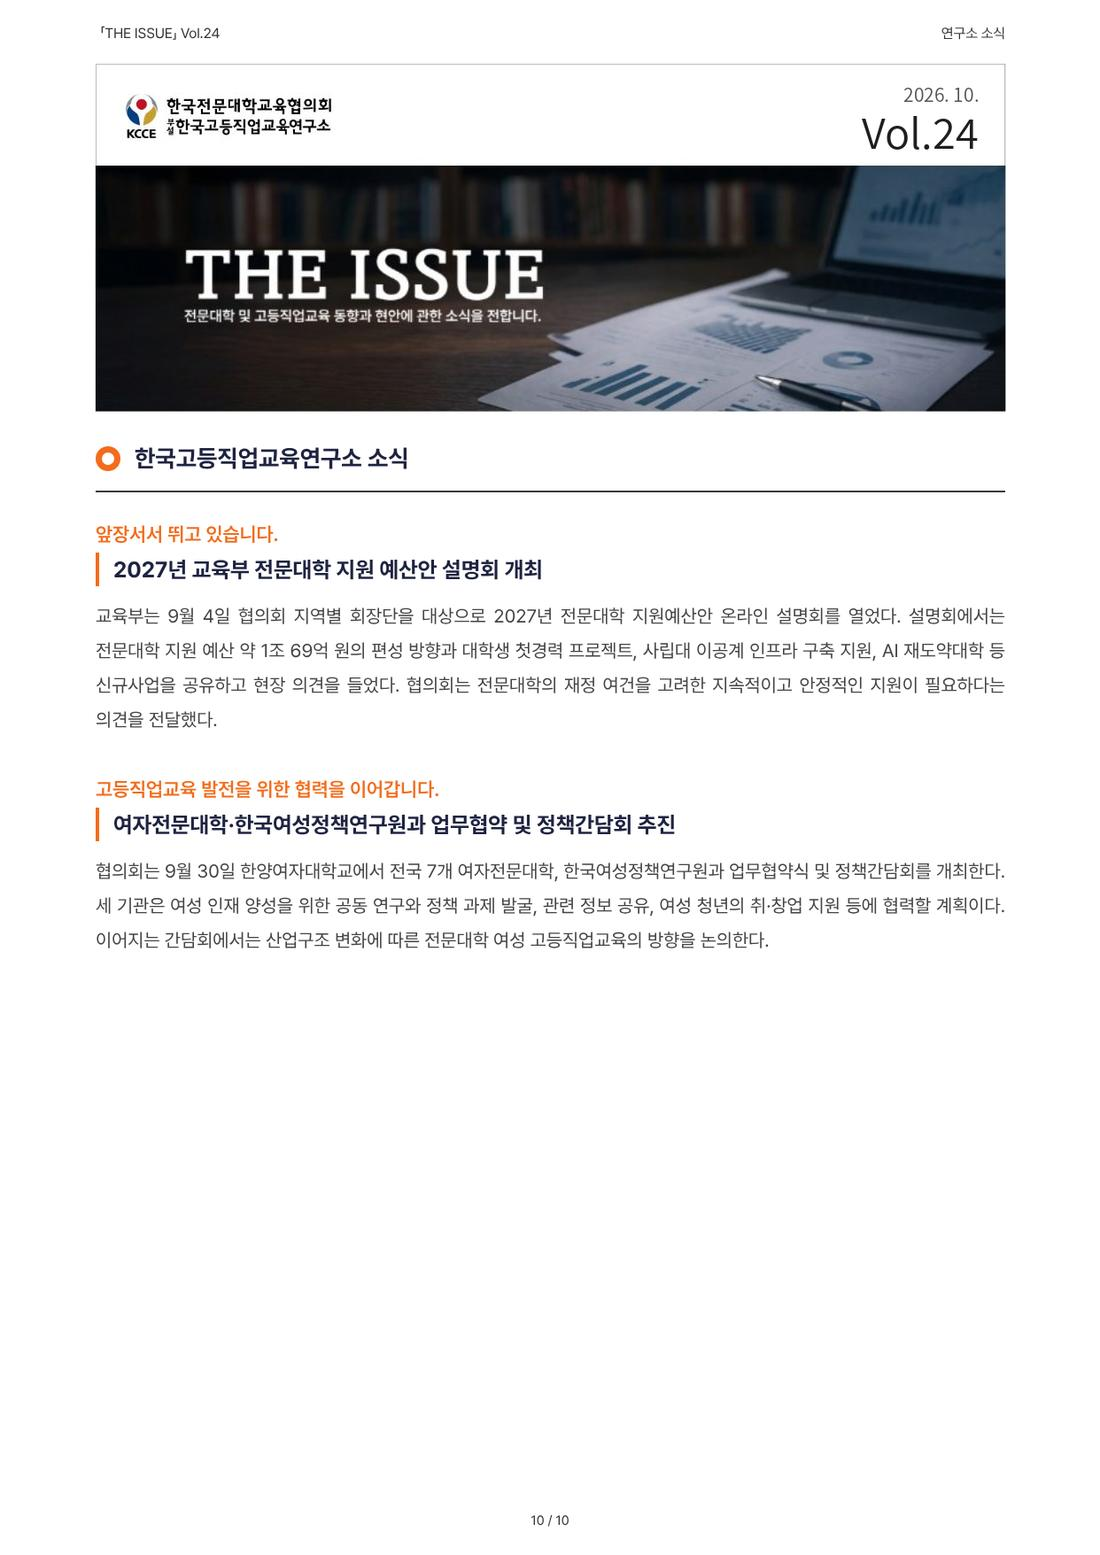
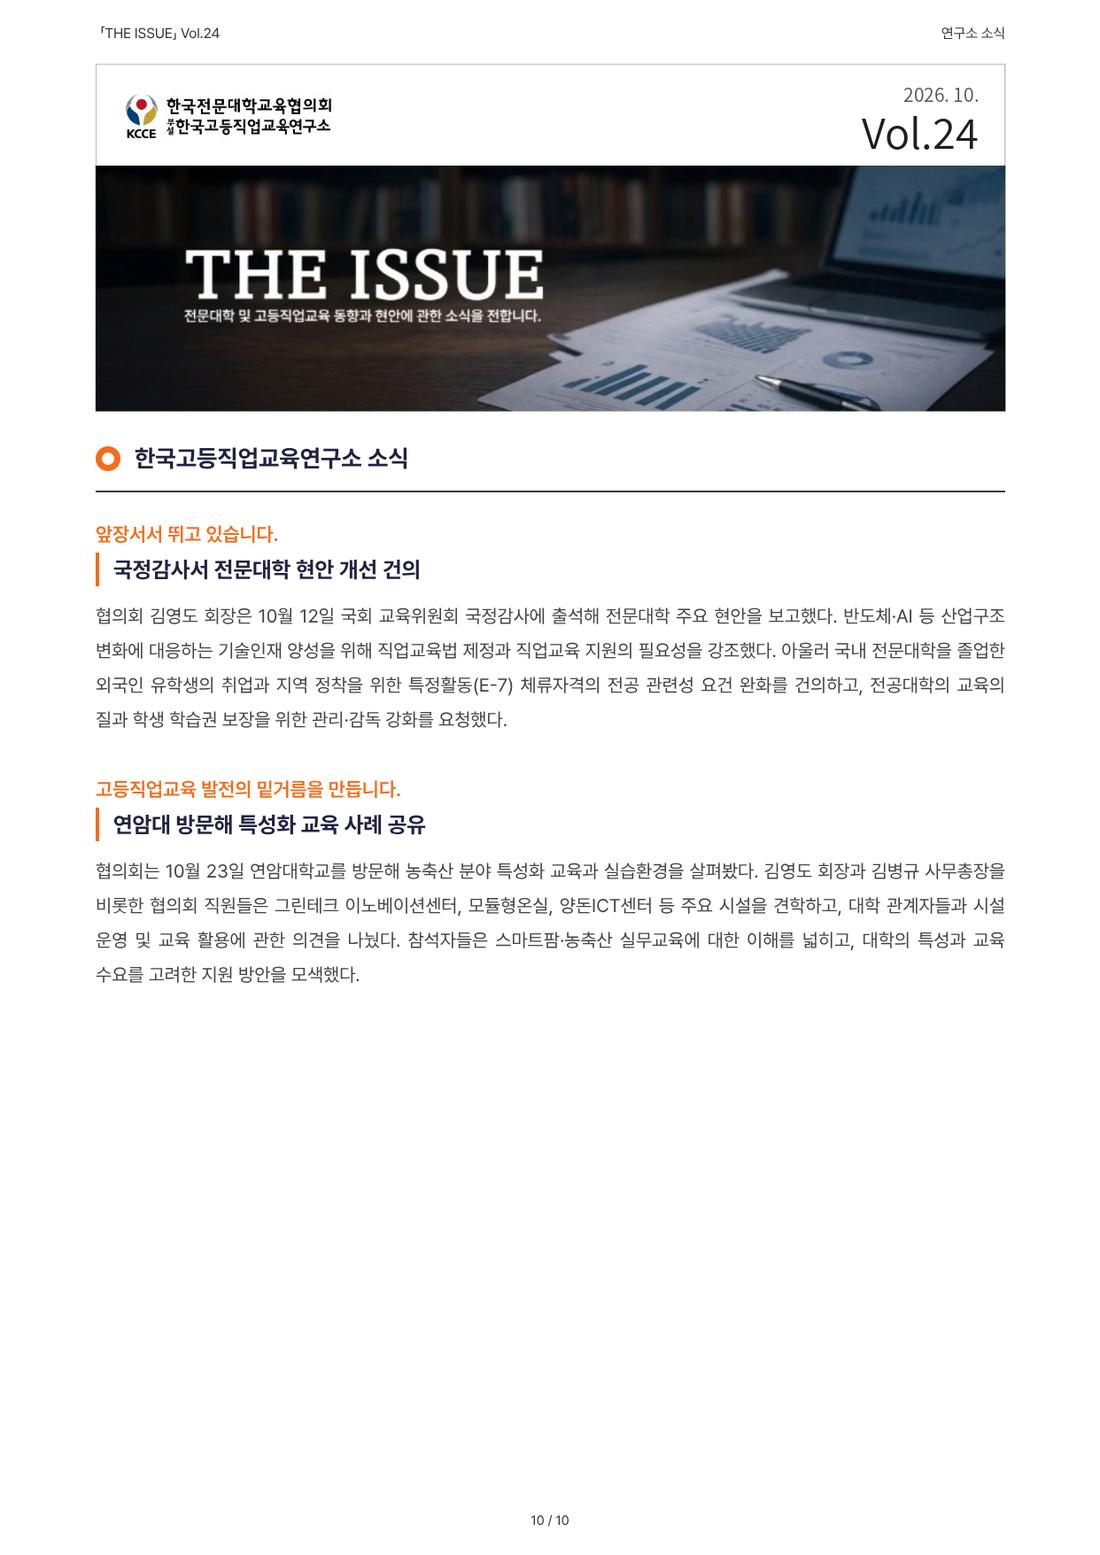
10월호(Vol.24) 연구소 소식 교체
- 국정감사서 전문대학 현안 개선 건의 (10. 12.)
- 연암대 방문해 특성화 교육 사례 공유 (10. 23.)

Claude-Session: https://claude.ai/code/session_018iYDuHEhaKjyns9PmGJY8s

Changed region(s): [[0.0927, 0.3395, 0.9273, 0.4939], [0.0927, 0.4939, 0.9273, 0.6482]]

diff --git a/ebook/vol24.html b/ebook/vol24.html
@@ -225,7 +225,7 @@ const ISSUE = {
   "vol24/p07.jpg?v=2",
   "vol24/p08.jpg?v=2",
   "vol24/p09.jpg?v=2",
-  "vol24/p10.jpg?v=2"
+  "vol24/p10.jpg?v=3"
  ],
  "articles": [
   {
@@ -254,8 +254,8 @@ const ISSUE = {
    "sec": "연구소 소식",
    "start": 10,
    "news": true,
-   "title": "2027년 전문대학 지원 예산안 설명회 · 여자전문대학·한국여성정책연구원 업무협약",
-   "sum": "9월 4일 지역별 회장단 대상 설명회 · 9월 30일 한양여자대학교 협약식 및 정책간담회"
+   "title": "국정감사서 전문대학 현안 개선 건의 · 연암대 방문해 특성화 교육 사례 공유",
+   "sum": "10월 12일 국회 교육위원회 국정감사 보고 · 10월 23일 연암대 농축산 특성화 시설 견학"
   }
  ]
 };
